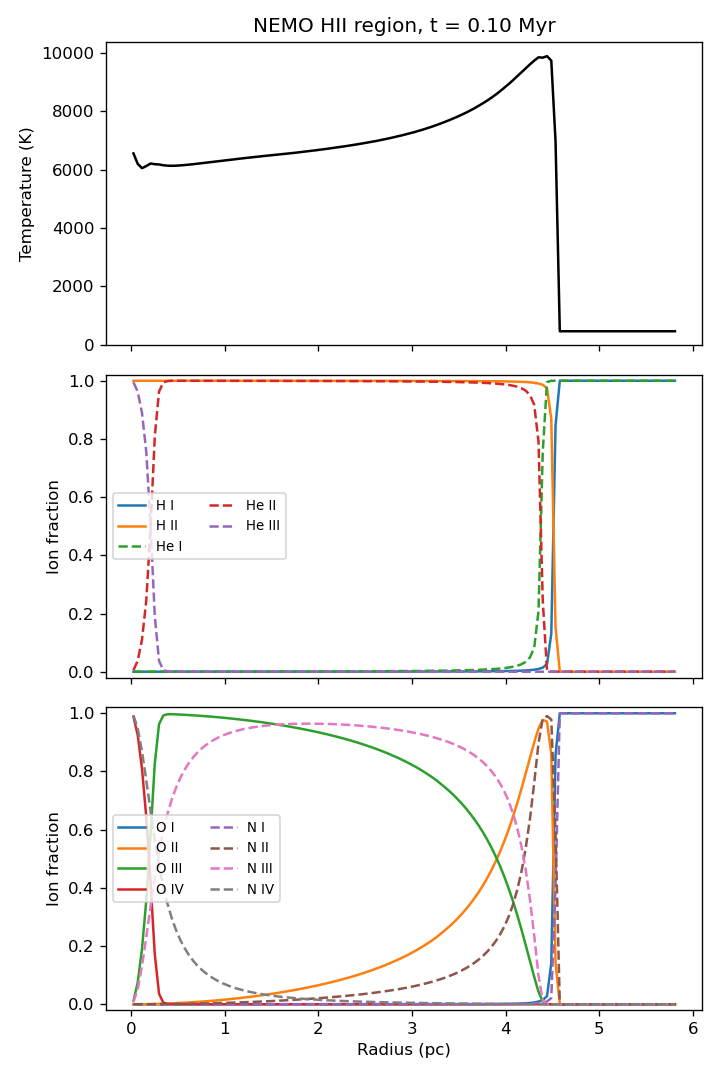
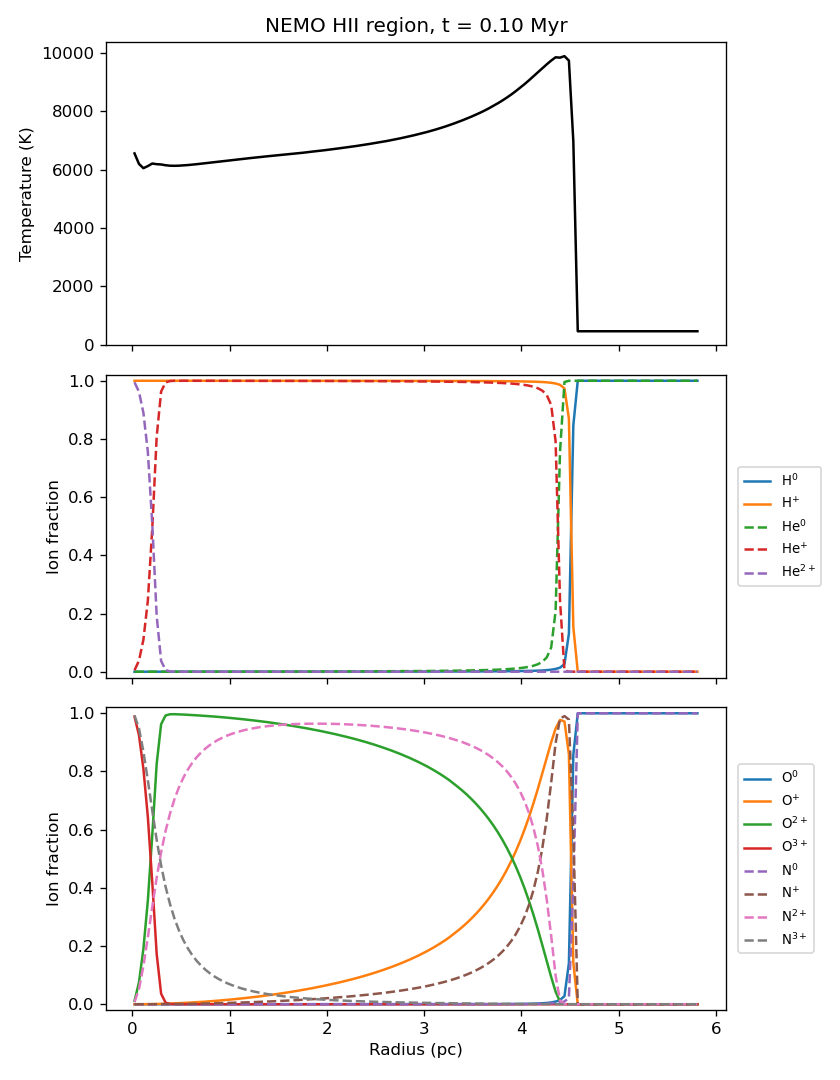
NEMO example: write ions as He^+, O^2+ etc. instead of spectroscopic notation

diff --git a/docs/ex-nemo/plot_hii40.py b/docs/ex-nemo/plot_hii40.py
@@ -53,9 +53,16 @@ def ion_fractions(element, nion):
     return stages[:nion]
 
 
-ROMAN = ["I", "II", "III", "IV", "V", "VI", "VII", "VIII", "IX"]
+def ion_label(element, charge):
+    """Label for an ion, e.g. He^{+}, O^{2+}, or H^{0} for the neutral atom."""
+    if charge == 0:
+        return element + r"$^{0}$"
+    if charge == 1:
+        return element + r"$^{+}$"
+    return element + r"$^{%d+}$" % charge
 
-fig, ax = plt.subplots(3, 1, figsize=(6, 9), sharex=True)
+
+fig, ax = plt.subplots(3, 1, figsize=(7, 9), sharex=True)
 
 ax[0].plot(r, get("Temperature"), "k-")
 ax[0].set_ylabel("Temperature (K)")
@@ -63,16 +70,16 @@ ax[0].set_title("NEMO HII region, t = {:.2f} Myr".format(time_myr))
 
 for el, n, style in (("H", 2, "-"), ("He", 3, "--")):
     for i, f in enumerate(ion_fractions(el, n)):
-        ax[1].plot(r, f, style, label="{} {}".format(el, ROMAN[i]))
+        ax[1].plot(r, f, style, label=ion_label(el, i))
 ax[1].set_ylabel("Ion fraction")
-ax[1].legend(fontsize=8, ncol=2, loc="center left")
+ax[1].legend(fontsize=8, loc="center left", bbox_to_anchor=(1.01, 0.5))
 
 for el, n, style in (("O", 4, "-"), ("N", 4, "--")):
     for i, f in enumerate(ion_fractions(el, n)):
-        ax[2].plot(r, f, style, label="{} {}".format(el, ROMAN[i]))
+        ax[2].plot(r, f, style, label=ion_label(el, i))
 ax[2].set_ylabel("Ion fraction")
 ax[2].set_xlabel("Radius (pc)")
-ax[2].legend(fontsize=8, ncol=2, loc="center left")
+ax[2].legend(fontsize=8, loc="center left", bbox_to_anchor=(1.01, 0.5))
 
 for a in ax[1:]:
     a.set_ylim(-0.02, 1.02)

diff --git a/docs/example_nemo.rst b/docs/example_nemo.rst
@@ -160,14 +160,14 @@ The fraction of the fully ionised stage of each element is one minus the sum of 
 
 + The ionised region extends to 4.5 pc, with a sharp ionisation front, where the gas changes from fully ionised to neutral over a few cells.
 + The temperature is 6000–7000 K close to the star and rises to almost 10,000 K near the ionisation front, where the radiation is harder because the softer photons have been absorbed on the way out.  Outside the front the neutral gas, which is only heated by cosmic rays, cools from its initial 600 K to about 460 K.
-+ Helium is singly ionised (He II) almost everywhere in the HII region, and doubly ionised only very close to the star; a 40,000 K star emits few photons that can ionise :math:`\mathrm{He}^+` (above 54.4 eV).
-+ Oxygen is mostly :math:`\mathrm{O}^{2+}` (O III) in the inner part of the HII region, and :math:`\mathrm{O}^{+}` (O II) in the outer part; nitrogen is mostly :math:`\mathrm{N}^{2+}` (N III).
++ Helium is mostly :math:`\mathrm{He}^{+}` almost everywhere in the HII region, and :math:`\mathrm{He}^{2+}` only very close to the star; a 40,000 K star emits few photons that can ionise :math:`\mathrm{He}^+` (above 54.4 eV).
++ Oxygen is mostly :math:`\mathrm{O}^{2+}` in the inner part of the HII region, and :math:`\mathrm{O}^{+}` in the outer part; nitrogen is mostly :math:`\mathrm{N}^{2+}`.
 
 
 Things to try
 -------------
 
 + Change the temperature of the star (``RT_Tstar____0``, and ``RT_strength_0`` to keep the luminosity consistent) to see how the ionisation of He and O depends on the spectrum.
-+ Switch off charge exchange (``EP_charge_exchange 0``) and compare the O II and N II fractions near the ionisation front.
++ Switch off charge exchange (``EP_charge_exchange 0``) and compare the :math:`\mathrm{O}^{+}` and :math:`\mathrm{N}^{+}` fractions near the ionisation front.
 + Switch on the hydrodynamics (``EP_dynamics 1``) and run for longer (a few Myr), to follow the expansion of the HII region as the hot, ionised gas pushes into the neutral gas.
 + For a 2D example with two stars, see the test script ``test/rhd-2d-nemo-2src.sh`` and its parameter file ``test/ci-inputs/params_TwoSrc_NEMO_d2l1n0032.txt``.
